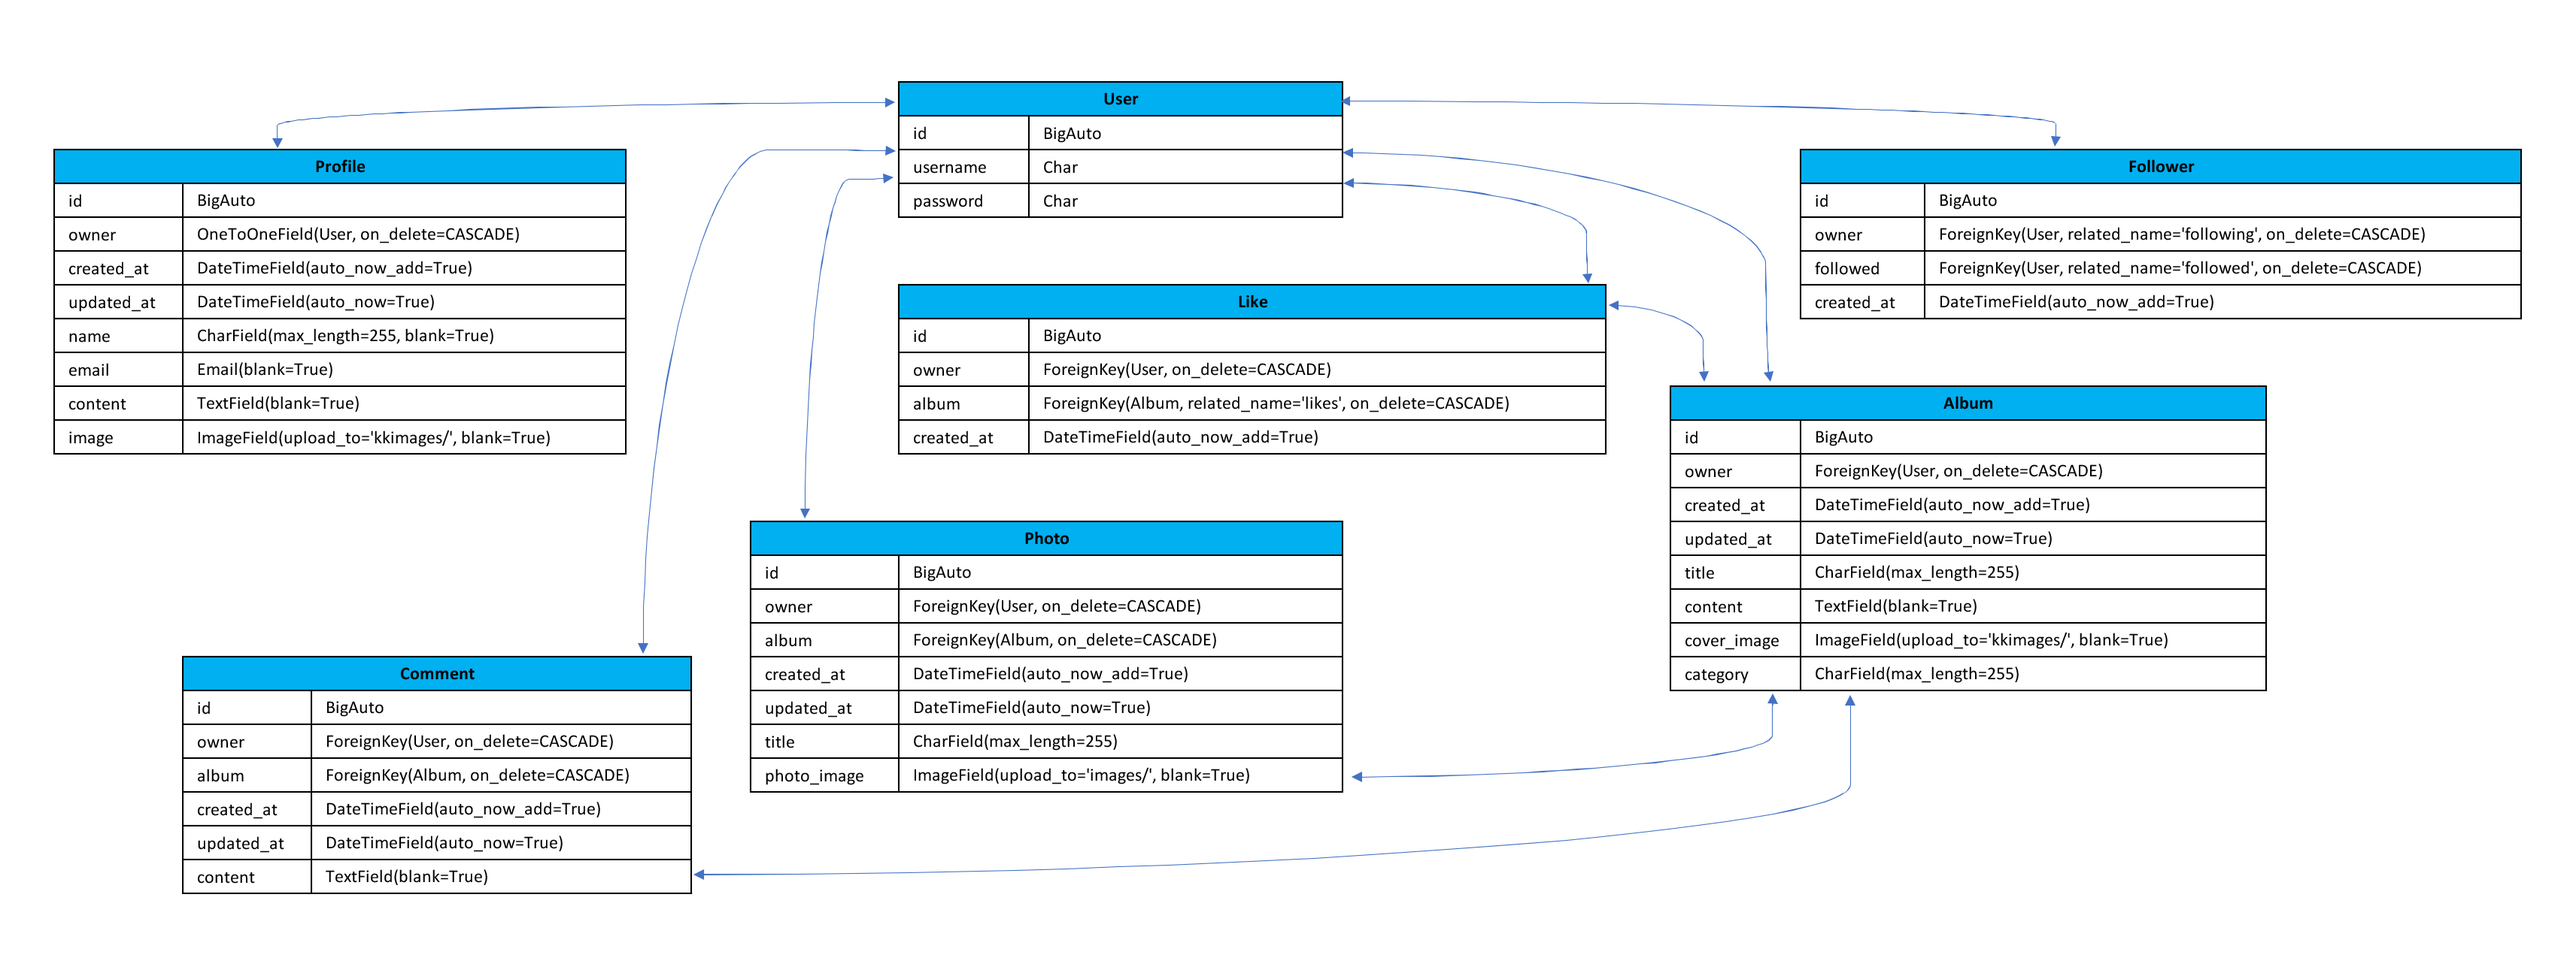
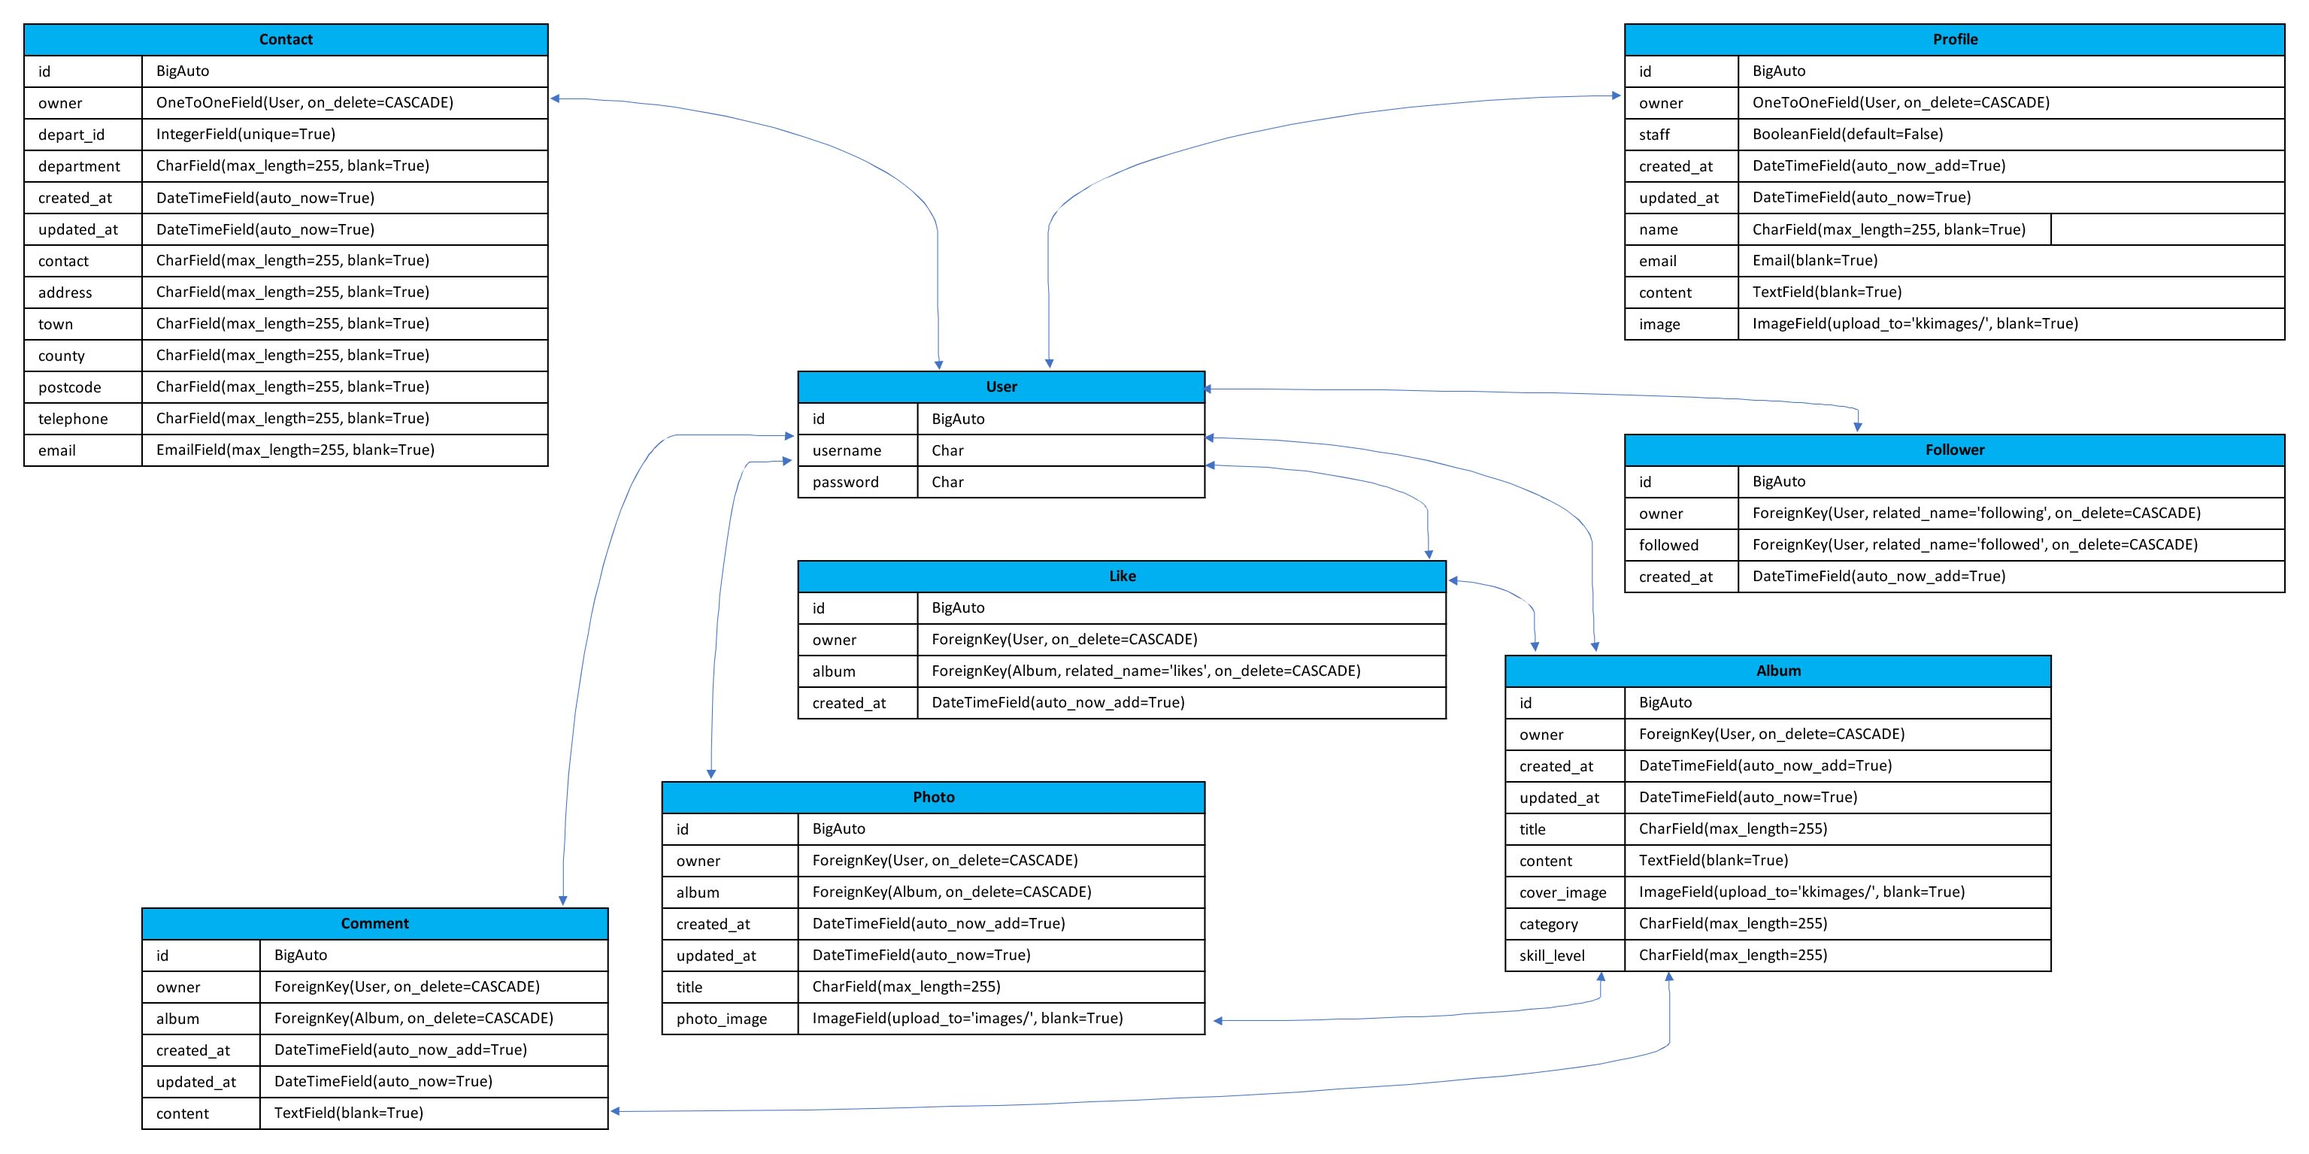
Update and add user stories to readme

diff --git a/kkimages_api/settings.py b/kkimages_api/settings.py
@@ -35,7 +35,8 @@ REST_FRAMEWORK = {
         if 'DEV' in os.environ
         else 'dj_rest_auth.jwt_auth.JWTCookieAuthentication'
     )],
-    'DEFAULT_PAGINATION_CLASS':  'rest_framework.pagination.PageNumberPagination',
+    'DEFAULT_PAGINATION_CLASS': 
+        'rest_framework.pagination.PageNumberPagination',
     'PAGE_SIZE': 10,
     'DATETIME_FORMAT': '%d %b %Y',
 }
@@ -75,7 +76,9 @@ if 'CLIENT_ORIGIN' in os.environ:
     ]
 
 if 'CLIENT_ORIGIN_DEV' in os.environ:
-    extracted_url = re.match(r'^.+-', os.environ.get('CLIENT_ORIGIN_DEV', ''), re.IGNORECASE).group(0)
+    extracted_url = re.match(
+        r'^.+-', os.environ.get('CLIENT_ORIGIN_DEV', ''), re.IGNORECASE
+        ).group(0)
     CORS_ALLOWED_ORIGIN_REGEXES = [
         rf"{extracted_url}(eu|us)\d+\w\.gitpod\.io$",
     ]

diff --git a/readme/user-stories/user-stories.md b/readme/user-stories/user-stories.md
@@ -1,0 +1,114 @@
+# User Stories
+
+This document list the details of each User Story for the backend of the KKImages project. There are total of 16 User Stories.
+
+Epic 01 Django Project - Create Initial Project
+
+1. [Install Django with Cloudinary](#user-story-1)
+2. [Create a new blank Django project and apps](#user-story-2)
+3. [Set project to use Cloudinary and PostgreSQL in Heroku](#user-story-3)
+4. [Deploy new project to Heroku early for development](#user-story-4)
+
+Epic 02 Django Project - Create first app 'profiles'
+
+5. [Update initial profiles model](#user-story-5)
+6. [Install Django REST Frameworks](#user-story-6)
+7. [Create profiles list and detail views](#user-story-7)
+
+Epic 03 Django Project - Create apps for the project
+
+8. [Create app for albums](#user-story-8)
+9. [Create app for photos](#user-story-9)
+10. [Create app for comments](#user-story-10)
+11. [Create app for likes](#user-story-11)
+12. [Create app for followers](#user-story-12)
+13. [Create app for contacts](#user-story-13)
+
+Epic 04 Django Project - Tests
+
+14. [Create automated tests for apps](#user-story-14)
+15. [Create manual tests for apps](#user-story-15)
+
+Epic 05 Project Deployment
+
+16. [Deploy final project to Heroku](#user-story-16)
+
+### User Story #1
+![User Story #1](api-user-stories-1.jpg)
+
+Return to [Top](#user-stories) of the page or main document [README](/README.md#design-approach)
+
+### User Story #2
+![User Story #2](api-user-stories-2.jpg)
+
+Return to [Top](#user-stories) of the page or main document [README](/README.md#design-approach)
+
+### User Story #3
+![User Story #3](api-user-stories-3.jpg)
+
+Return to [Top](#user-stories) of the page or main document [README](/README.md#design-approach)
+
+### User Story #4
+![User Story #4](api-user-stories-4.jpg)
+
+Return to [Top](#user-stories) of the page or main document [README](/README.md#design-approach)
+
+### User Story #5
+![User Story #5](api-user-stories-5.jpg)
+
+Return to [Top](#user-stories) of the page or main document [README](/README.md#design-approach)
+
+### User Story #6
+![User Story #6](api-user-stories-6.jpg)
+
+Return to [Top](#user-stories) of the page or main document [README](/README.md#design-approach)
+
+### User Story #7
+![User Story #7](api-user-stories-7.jpg)
+
+Return to [Top](#user-stories) of the page or main document [README](/README.md#design-approach)
+
+### User Story #8
+![User Story #8](api-user-stories-8.jpg)
+
+Return to [Top](#user-stories) of the page or main document [README](/README.md#design-approach)
+
+### User Story #9
+![User Story #9](api-user-stories-9.jpg)
+
+Return to [Top](#user-stories) of the page or main document [README](/README.md#design-approach)
+
+### User Story #10
+![User Story #10](api-user-stories-10.jpg)
+
+Return to [Top](#user-stories) of the page or main document [README](/README.md#design-approach)
+
+### User Story #11
+![User Story #11](api-user-stories-11.jpg)
+
+Return to [Top](#user-stories) of the page or main document [README](/README.md#design-approach)
+
+### User Story #12
+![User Story #12](api-user-stories-12.jpg)
+
+Return to [Top](#user-stories) of the page or main document [README](/README.md#design-approach)
+
+### User Story #13
+![User Story #13](api-user-stories-13.jpg)
+
+Return to [Top](#user-stories) of the page or main document [README](/README.md#design-approach)
+
+### User Story #14
+![User Story #14](api-user-stories-14.jpg)
+
+Return to [Top](#user-stories) of the page or main document [README](/README.md#design-approach)
+
+### User Story #15
+![User Story #15](api-user-stories-15.jpg)
+
+Return to [Top](#user-stories) of the page or main document [README](/README.md#design-approach)
+
+### User Story #16
+![User Story #16](api-user-stories-16.jpg)
+
+Return to [Top](#user-stories) of the page or main document [README](/README.md#design-approach)

diff --git a/README.md b/README.md
@@ -8,7 +8,7 @@ Click [here](https://kkimages.herokuapp.com/) to access the frontend of the live
 
 *Screenshot - Mockup on KKImages App, generated from [Multi Device Website Mockup Generator](https://techsini.com/multi-mockup/index.php)*
 
-![Screenshot on Mockup](readme/images/mockup.png) ***To be filled in
+![Screenshot on Mockup](readme/images/site-mockup.png)
 
 ---
 ### Objectives
@@ -37,13 +37,13 @@ The target audients are split into photographers and general users.
 ---
 ## Application Design
 
-This part of the project is to design the backend database to provide and store data for the application. As mentioned in the objectives, the backend will be built using Drangon Rest Framework.
+This part of the project is to design the backend database to provide and store data for the application. As mentioned in the objectives, the backend will be built using Django Rest Framework.
 
 ### Initial Database Design
 
 The models of the database design have been adapted and modified from the Code Institute Django Rest Framework API Moment project.
 
-There are 7 tables - User, Profile, Album, Photo, Comment, Like and Follower.
+There are 8 tables - User, Profile, Album, Photo, Comment, Like, Follower and Contact.
 
 *Database Deisgn*
 ![Database Design](readme/images/database-models.jpg)
@@ -56,13 +56,23 @@ The design has broken down into User Stories and grouped into Epics. Each User S
 
 #### User Stories
 
-***To be filled in
+There are 16 user stories identified for the backend at the beginning of the project and they were grouped into 5 Epics as listed in the table below
+
+**[User Stories Full Detailed Report (Click to view)](readme/user-stories/user-stories.md#user-stories)**
+
+*Summary of Epics and User Stories*
+
+![Summary of User Stories](readme/user-stories/api-user-stories-summary.jpg)
 
 #### Kanban Board
 
 In development, Kanban Board was used to schedule the execution of the user stories. This approach allows to allocating user stories by priority and monitoring each user story's progress.
 
 The Kanban board below shows all the user stories were initially in the 'To Do' list column. Then at different stage of the development, each one is moved into 'In Progress' column and finally into 'Done' column when it has completed. All user stories that are not included in this iteration are moved into 'Out of Current Scope' column.
+
+*Snapshot of the Kanban Board*
+
+![Kanban Board](readme/images/kanban-board.png)
 
 ---
 ## Features
